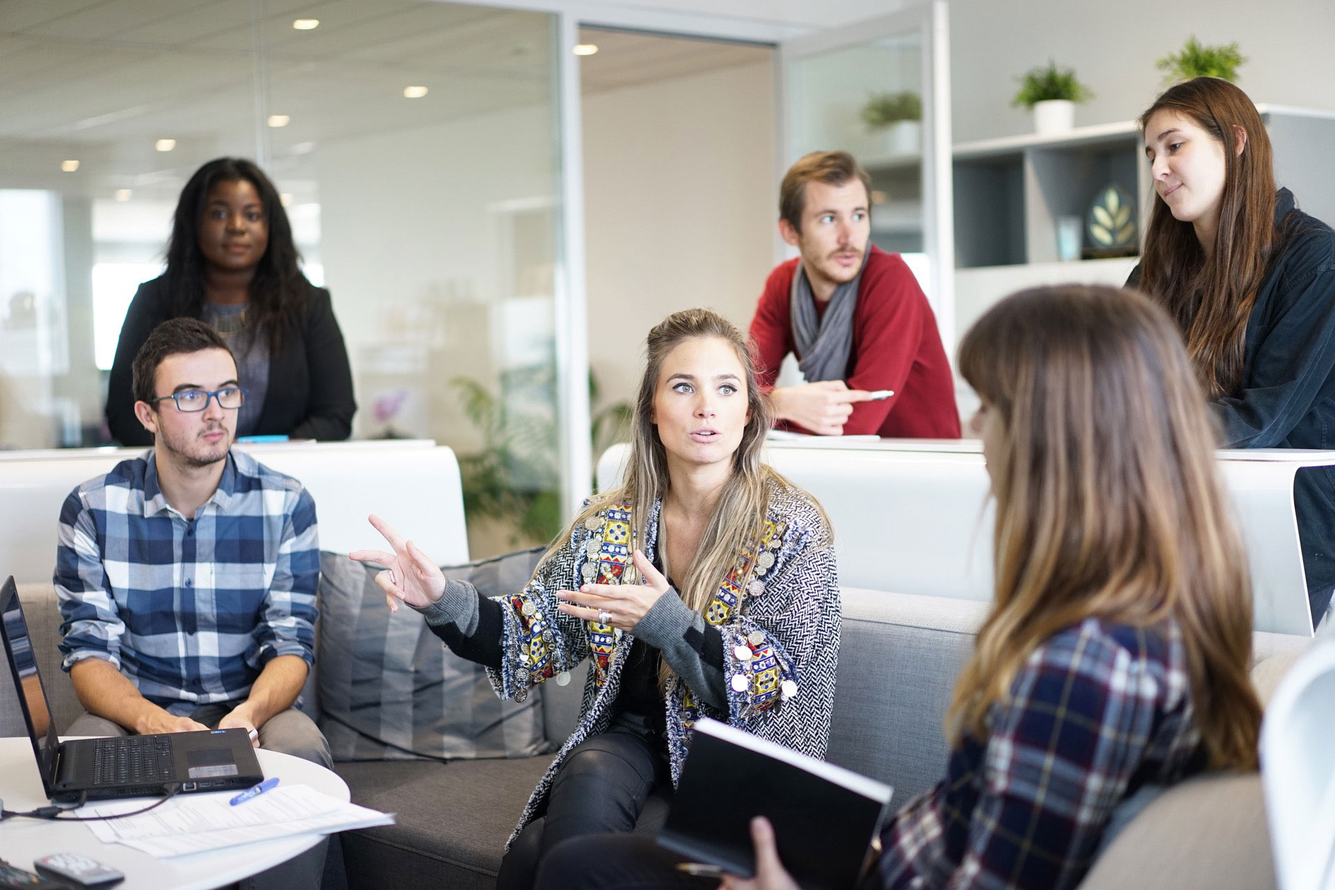
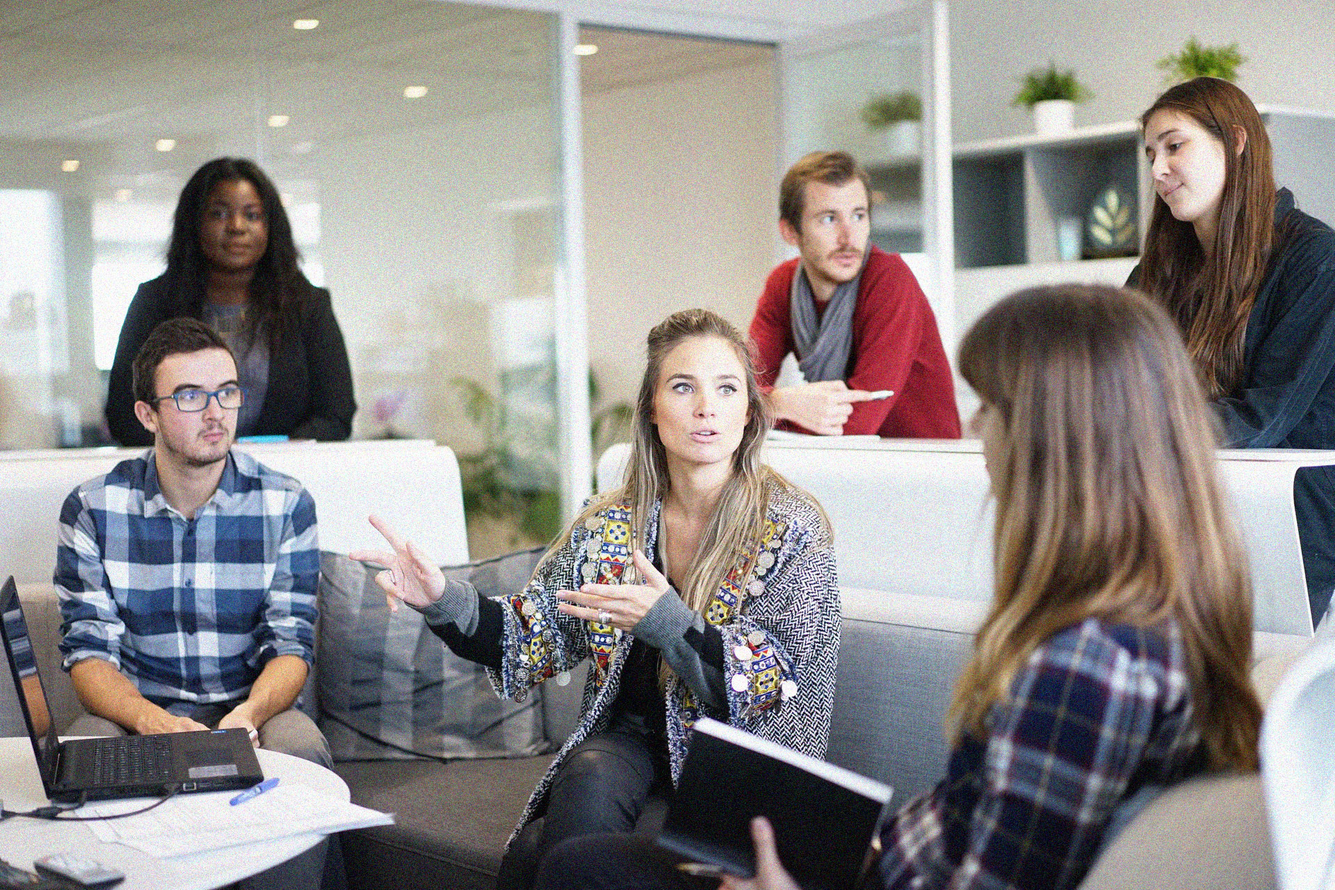
Added noise to mission hero image.

Changed region(s): [[0.0, 0.0, 1.0, 1.0]]

diff --git a/css/styles/style.css b/css/styles/style.css
@@ -1125,7 +1125,10 @@ footer {
     background-color: #69c040; }
 
   .Hero-right {
-    padding-right: 5%; } }
+    padding-right: 5%; }
+
+  .Hero-right-quote {
+    right: 12.75%; } }
 @media screen and (max-width: 1150px) {
   .Hero-hex-1,
   .Hero-hex-2,

diff --git a/css/styles/mobile.css b/css/styles/mobile.css
@@ -6,7 +6,10 @@
     background-color: #69c040; }
 
   .Hero-right {
-    padding-right: 5%; } }
+    padding-right: 5%; }
+
+  .Hero-right-quote {
+    right: 12.75%; } }
 @media screen and (max-width: 1150px) {
   .Hero-hex-1,
   .Hero-hex-2,

diff --git a/css/sass/mobile.scss b/css/sass/mobile.scss
@@ -15,6 +15,10 @@
 	padding-right: 5%;
 }
 
+	.Hero-right-quote{
+		right: 12.75%;
+	}
+
 } // max 2000
 
 @media screen and (max-width: 1150px){
